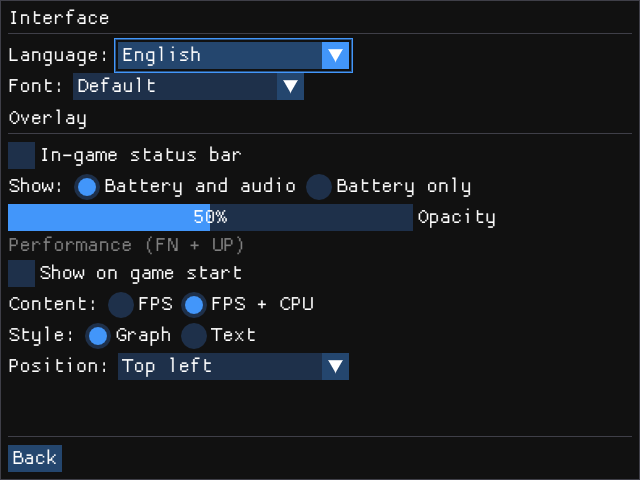
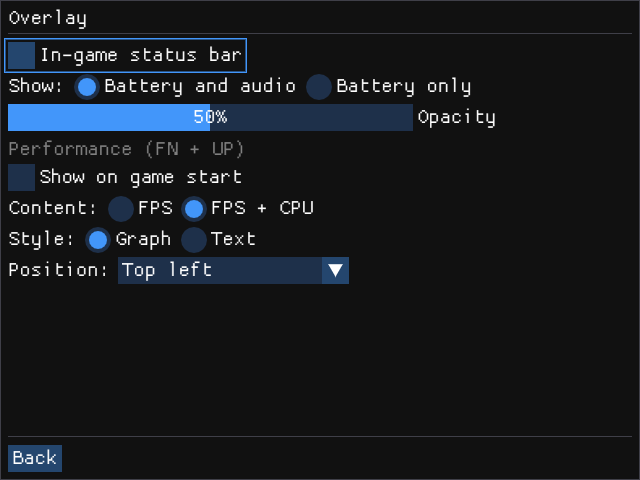
System Settings: Overlay is its own section
It was a block inside Interface; now it sits next to Interface on the main
page. README tree and screenshots follow.

Changed region(s): [[0.0, 0.0312, 0.7812, 0.8125]]

diff --git a/rootfs/package/system-settings/system-settings.cpp b/rootfs/package/system-settings/system-settings.cpp
@@ -686,7 +686,7 @@ int main(int argc, char* argv[]) {
 
     // The main page is a menu of sections; each opens its own page
     enum Page { PAGE_NONE, PAGE_MAIN, PAGE_DISPLAY, PAGE_LAUNCHER, PAGE_INTERFACE, PAGE_STORAGE,
-                PAGE_SYSTEM_MENU, PAGE_SYSTEM, PAGE_INPUT, PAGE_TESTER, PAGE_TABS };
+                PAGE_SYSTEM_MENU, PAGE_SYSTEM, PAGE_INPUT, PAGE_TESTER, PAGE_TABS, PAGE_OVERLAY };
     Page page = PAGE_MAIN;
     // Where B / Back goes from each page (PAGE_NONE: leave the app)
     auto parent_of = [](Page p) {
@@ -837,6 +837,7 @@ int main(int argc, char* argv[]) {
             ImGui::SetItemDefaultFocus();
             page_button(tr("Launcher"), PAGE_LAUNCHER);
             page_button(tr("Interface"), PAGE_INTERFACE);
+            page_button(tr("Overlay"), PAGE_OVERLAY);
             page_button(tr("Storage"), PAGE_STORAGE);
             page_button(tr("System"), PAGE_SYSTEM_MENU);
             page_button(tr("Input Settings"), PAGE_INPUT);
@@ -952,11 +953,11 @@ int main(int argc, char* argv[]) {
                     ImGui::EndCombo();
                 }
             }
-            ImGui::Spacing();
-            ImGui::Text("%s", tr("Overlay"));
-            ImGui::Separator();
-            ImGui::Spacing();
+            end_page();
+        } else if (page == PAGE_OVERLAY) {
+            begin_page("Overlay", "Overlay");
             bool hud_changed = ImGui::Checkbox(tr("In-game status bar"), &hud.status);
+            ImGui::SetItemDefaultFocus();
             ImGui::AlignTextToFramePadding();
             ImGui::Text("%s", tr("Show:"));
             ImGui::SameLine();
@@ -964,6 +965,7 @@ int main(int argc, char* argv[]) {
             ImGui::SameLine();
             if (ImGui::RadioButton(tr("Battery only"), hud.status_battery_only)) { hud.status_battery_only = true; hud_changed = true; }
             hud_changed |= level_slider(tr("Opacity"), &hud.status_opacity, 0, 100, 10);
+            ImGui::Spacing();
             ImGui::TextDisabled("%s", tr("Performance (FN + UP)"));
             hud_changed |= ImGui::Checkbox(tr("Show on game start"), &hud.visible);
             ImGui::AlignTextToFramePadding();

diff --git a/README.md b/README.md
@@ -28,7 +28,7 @@ Please Note: At the time of writing, Allwinner-A23 based GA36-MB devices (which 
 - Brightness, volume and CPU mode are kept across reboots
 - SELECT+START closes the active application cleanly (RetroArch saves first), bringing you right back to the launcher
 - FN+START+SELECT force-kills the active application
-- FN+DPAD_UP toggles a live FPS/CPU graph for monitoring in-game performance. What it shows, its style and its corner are set in System Settings -> Interface -> Performance overlay.
+- FN+DPAD_UP toggles a live FPS/CPU graph for monitoring in-game performance. What it shows, its style and its corner are set in System Settings -> Overlay.
 - FN+DPAD_DOWN switches the sound between the speaker and the headphones only
 - If the screen is on, the LEDs are off. Nothing blinding you while you're playing in the dark
 - Comes stock with Chocolate Doom, ready to play
@@ -156,16 +156,16 @@ System Settings
 │   └── Launcher tabs ─ which tabs to show
 ├── Interface
 │   ├── Language
-│   ├── Font
-│   └── Overlay
-│       ├── In-game status bar
-│       │   ├── Show: Battery and audio / Battery only
-│       │   └── Opacity
-│       └── Performance (FN + UP)
-│           ├── Show on game start
-│           ├── Content: FPS / FPS + CPU
-│           ├── Style: Graph / Text
-│           └── Position: top or bottom, left or right
+│   └── Font
+├── Overlay
+│   ├── In-game status bar
+│   ├── Show: Battery and audio / Battery only
+│   ├── Opacity
+│   └── Performance (FN + UP)
+│       ├── Show on game start
+│       ├── Content: FPS / FPS + CPU
+│       ├── Style: Graph / Text
+│       └── Position: top or bottom, left or right
 ├── Storage
 │   ├── HOME usage
 │   ├── Resize Home
@@ -193,8 +193,8 @@ VT323 and Pixelify Sans are under the SIL Open Font License and ProggyClean unde
 | Main page | Display & Audio |
 | --- | --- |
 | ![System Settings](docs/screenshots/system-settings.png) | ![Display & Audio](docs/screenshots/system-settings-audio.png) |
-| Interface | In-game status bar |
-| ![Interface](docs/screenshots/system-settings-overlay.png) | ![In-game status bar](docs/screenshots/status-bar.png) |
+| Overlay | In-game status bar |
+| ![Overlay](docs/screenshots/system-settings-overlay.png) | ![In-game status bar](docs/screenshots/status-bar.png) |
 | Performance overlay in game (FN + D-pad up) | |
 | ![Performance overlay in game](docs/screenshots/performance-overlay.png) | |
 
